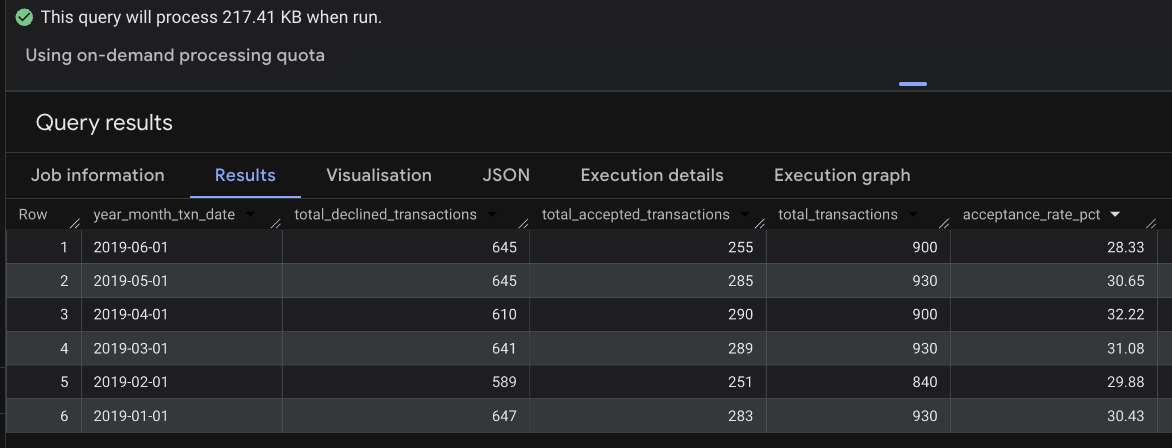
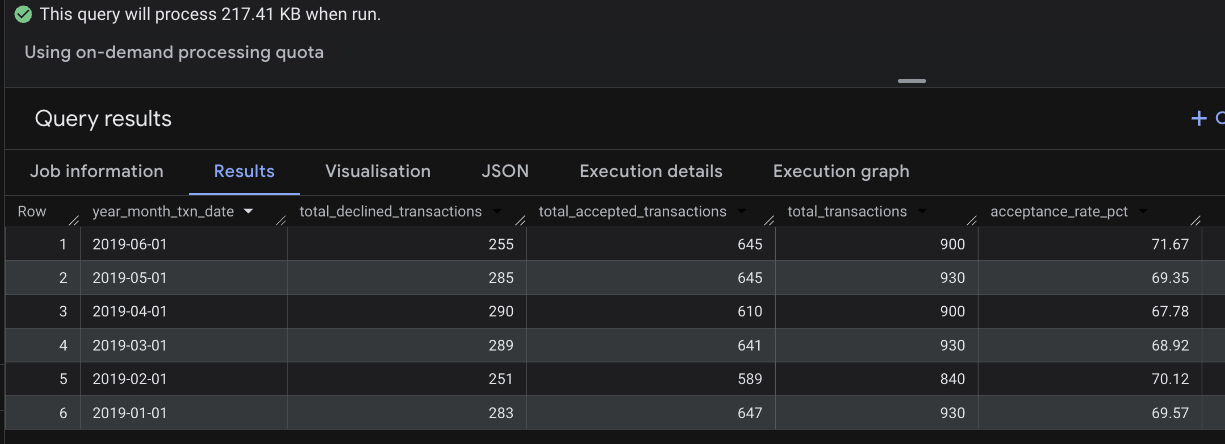
readme fix

diff --git a/README.md b/README.md
@@ -5,9 +5,9 @@ Deel clients can add funds to their Deel account using their credit and debit ca
 
 Deel has connectivity into Globepay using their API. Deel clients provide their credit and debit details within the Deel web application, Deel systems pass those credentials along with any relevant transaction details to Globepay for processing
 
-# Part 1 - Data Ingestion and Architecture Design
+# `Part I - Data Ingestion and Architecture Design`
 
-## <kbd>1. Preliminary Data Exploration </kbd>
+## `1. Preliminary Data Exploration`
 
 ### Transaction Acceptance Report
 notebook path: `analyses/acceptance_rate_eda.ipynb`
@@ -67,7 +67,7 @@ chargeback      0
 * Transactional data only covers 6 months of 2019.
 * A consistent universe of 5430 records is maintained across both the acceptance report and the chargeback report.
 
-## <kbd>2. Summary of your model architecture</kbd>
+## `2. Summary of your model architecture`
 
 The architecture is divided into four standalone layers to ensure scalability, data quality, and clear lineage. 
 
@@ -102,17 +102,17 @@ models
 
 ### Layer Descriptions
 
-### 1. Ingestion Layer
+### `1. Ingestion Layer`
 * **Role**: Ingestion of raw transaction acceptance and chargeback data.
 * **Action**: Static CSV files are loaded into BigQuery as raw tables
 * **Notes**: EDA showed no messy data or broken data formats; however, testing was still applied to ensure data quality at the start of the pipeline.
 
-### 2. Staging Layer
+### `2. Staging Layer`
 * **Role**: Cleaning and standardizing.
 * **Action**: Creation of views that rename columns, cast timestamps, and standardize the schema.
 * **Why**: This layer ensures that if source column names change, the fix only needs to be applied in one place.
 
-### 3. Intermediate Layer
+### `3. Intermediate Layer`
 * **Role**: Business logic integration and core transformations.
 * **Action**: This is where the "heavy lifting" occurs, using complex transformations to further refine the data.
 * **JSON Processing**:
@@ -121,12 +121,12 @@ models
 * **Joining & Flag Creation**: Joins transactions with chargebacks and creates the `has_chargeback` and `has_chargeback_evidence` boolean fields.
 * **Why**: Keeps complex logic out of the Marts layer to ensure the final tables remain thin and easy to query.
 
-### 4. Marts Layer
+### `4. Marts Layer`
 * **Role**: Consumption and reporting at the enterprise or domain level.
 * **Action**: Builds the final `fct_transactions` model, capable of answering all defined business questions.
 * **Why**: This table is optimized for BI tools and end-users. It is tested for uniqueness and nulls to ensure financial reporting accuracy.
 
-### Data Limitations & Assumptions
+### `Data Limitations & Assumptions`
 * **Assumption on Chargeback Status**: Although the current acceptance and chargeback reports share a perfect 1:1 mapping, I have introduced a boolean validation field to identify any transactions missing a corresponding chargeback record. The field `has_chargeback_evidence` will let the analysts filter any transaction with missing chargeback data and avoid dealing with nulls within the BI tool to be used by the analyst
 
 ## 3. Lineage graphs
@@ -135,14 +135,13 @@ The graph below shows the flow from raw seeds to the final fact table.
 
 <img src="docs/dbt_architecture_lineage.png" width="700" alt="dbt Lineage Graph">
 
-## 4. Tips around macros, data validation, and documentation
+## `4. Tips around macros, data validation, and documentation`
 
 ### Data Quality and Validations
 * **Uniqueness and Not-Null**: Applied to `transaction_id` and `external_ref` across both the Staging and Marts layers. These tests ensure no duplicates are generated during joins, preventing the distortion of critical financial metrics.
 * **Relationships**: Used to guarantee that 100% of the IDs in the `chargeback_report` exist within the `acceptance_report`, ensuring referential integrity.
 * **Accepted Values**: Used to validate that categorical fields (such as `state`) fall within the expected set of values defined in the source data
 
-### Documentation
 ### Documentation
 * YML descriptions were included for every model and column, and I ensured that this information was transferred to the materialized models in BigQuery.
 * CTEs in SQL are key to making the transformation steps easy for anyone to follow. In my day-to-day work, I also welcome the inclusion of comments within the code. Our enterprise-level repository has many collaborators; therefore, it is always helpful to be able to pick up where someone left off with clear context and SQL logic explanations.
@@ -184,7 +183,7 @@ models:
         description: "{{ doc('transaction_state') }}"
 ```
 
-# Part 2 - Final Model Testing
+# `Part II - Final Model Testing`
 For the second part of the challenge, please develop a production version of the model for the
 Data Analyst to utilize. This model should be able to answer these three questions at a
 minimum
@@ -199,6 +198,7 @@ dbt build -s +fct_transactions
 
 <img src="docs/dbt_build_evidence.png" width="700">
 
+----------------------------------------
 
 1. What is the acceptance rate over time?
 
@@ -206,8 +206,8 @@ dbt build -s +fct_transactions
 with calculations as (
   select 
     date(date_trunc(processed_at, month)) as year_month_txn_date,
-    sum(case when status='DECLINED' then 0 else 1 end)  as total_declined_transactions, 
-    sum(case when status!='DECLINED' then 0 else 1 end) as total_accepted_transactions,
+    sum(case when status='DECLINED' then 1 else 0 end)  as total_declined_transactions, 
+    sum(case when status='ACCEPTED' then 1 else 0 end) as total_accepted_transactions,
     count(transaction_id) as total_transactions
   from deel-task-12345.payment_management.fct_transactions 
   group by year_month_txn_date 
@@ -221,6 +221,8 @@ order by year_month_txn_date desc
 ```
 
 <img src="docs/query_results/acceptance_rate_over_time.png" width="700">
+
+----------------------------------------
 
 2. List the countries where the amount of declined transactions went over $25M
 ```sql
@@ -238,6 +240,8 @@ where total_settled_amount_usd_for_declined_txns>25000000
 ```
 
 <img src="docs/query_results/countries_declined_txns_over_25_million.png" width="700">
+
+----------------------------------------
 
 3. Which transactions are missing chargeback data?
 
